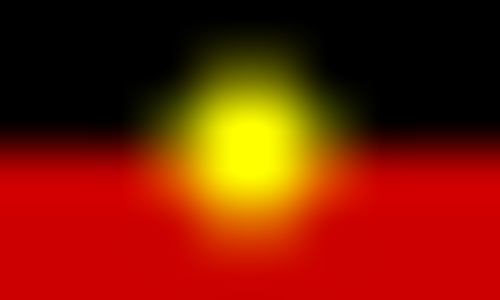
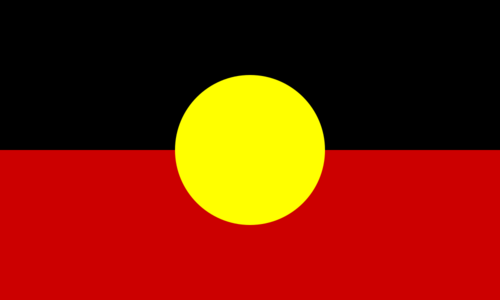
fixed rendering of australian aboriginal flag

Changed region(s): [[0.0, 0.12, 1.0, 0.87]]

diff --git a/dev/scripts/convert_svgs.py b/dev/scripts/convert_svgs.py
@@ -71,6 +71,9 @@ def convert_svgs_to_x(
     overwrite,
     dry_run,
 ):
+    # create dest path (including /svg/{fmt}/ subfolders) if it doesn't already exist
+    dest_path.mkdir(exist_ok=True, parents=True)
+
     # copy svgs from source_path to dest_path (webp/png folder)
     shutil.copytree(source_path, dest_path, dirs_exist_ok=True)
     # convert in place (webp/png folder), then delete svg
@@ -89,16 +92,32 @@ def convert_svgs_to_x(
 
 def main():
     # one of the output formats must match the ones defined in flags.js
-    output_fmts = [("png", "x300"), ("webp", "x300")]
-    overwrite = False
 
-    for dest_fmt, resolution in output_fmts:
+    SOURCE_ROOT = "../../flags"
+    SOURCE_FMT = "svg"
+
+    # default config:
+    OUTPUT_FMTS = [("png", "x300"), ("webp", "x300")]
+    DEST_ROOT = "../../flags"
+    OVERWRITE = False
+
+    # special config:
+    # max fb upload res = 2048 in either dim
+    # most extreme ratio is Qatar 11:28
+    #  11  x
+    #  28  2048
+    #  x = 804.571428571
+    # OUTPUT_FMTS = [("png", "x800")]
+    # DEST_ROOT = "/home/brett/Pictures/Flags"
+    # OVERWRITE = False
+
+    for dest_fmt, resolution in OUTPUT_FMTS:
         # recommend a fixed-height resolution with a variable width
         # consider square flags like Switzerland
         # if we matched the width, it would look out of proportion
         quality = 100
-        source_path = Path("../../flags/svg/")
-        dest_path = Path(f"../../flags/{dest_fmt}/{resolution}/")
+        source_path = Path(f"{SOURCE_ROOT}/{SOURCE_FMT}/")
+        dest_path = Path(f"{DEST_ROOT}/{dest_fmt}/{resolution}/")
         dest_ext = f".{dest_fmt}"
         dry_run = False
         convert_svgs_to_x(
@@ -107,7 +126,7 @@ def main():
             dest_ext,
             resolution=resolution,
             quality=quality,
-            overwrite=overwrite,
+            overwrite=OVERWRITE,
             dry_run=dry_run,
         )
 
